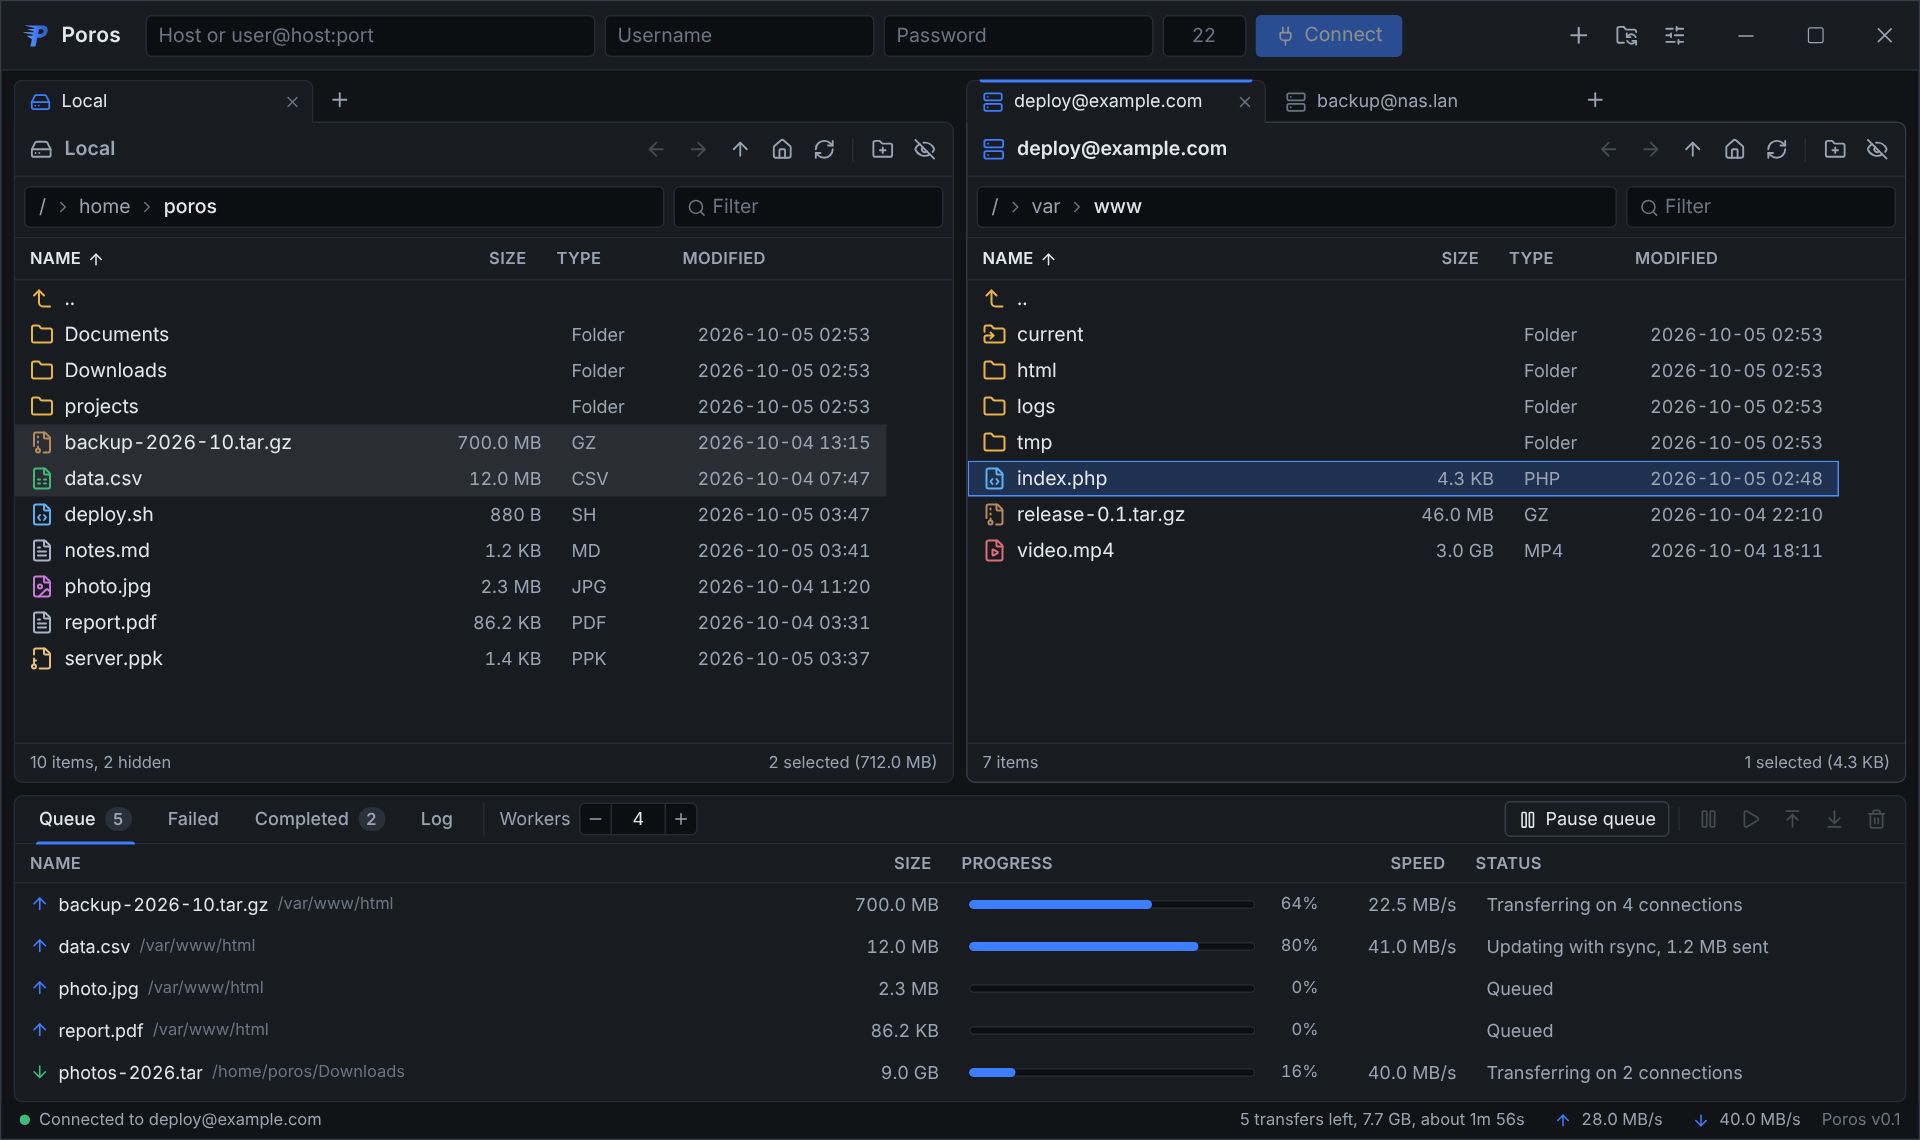
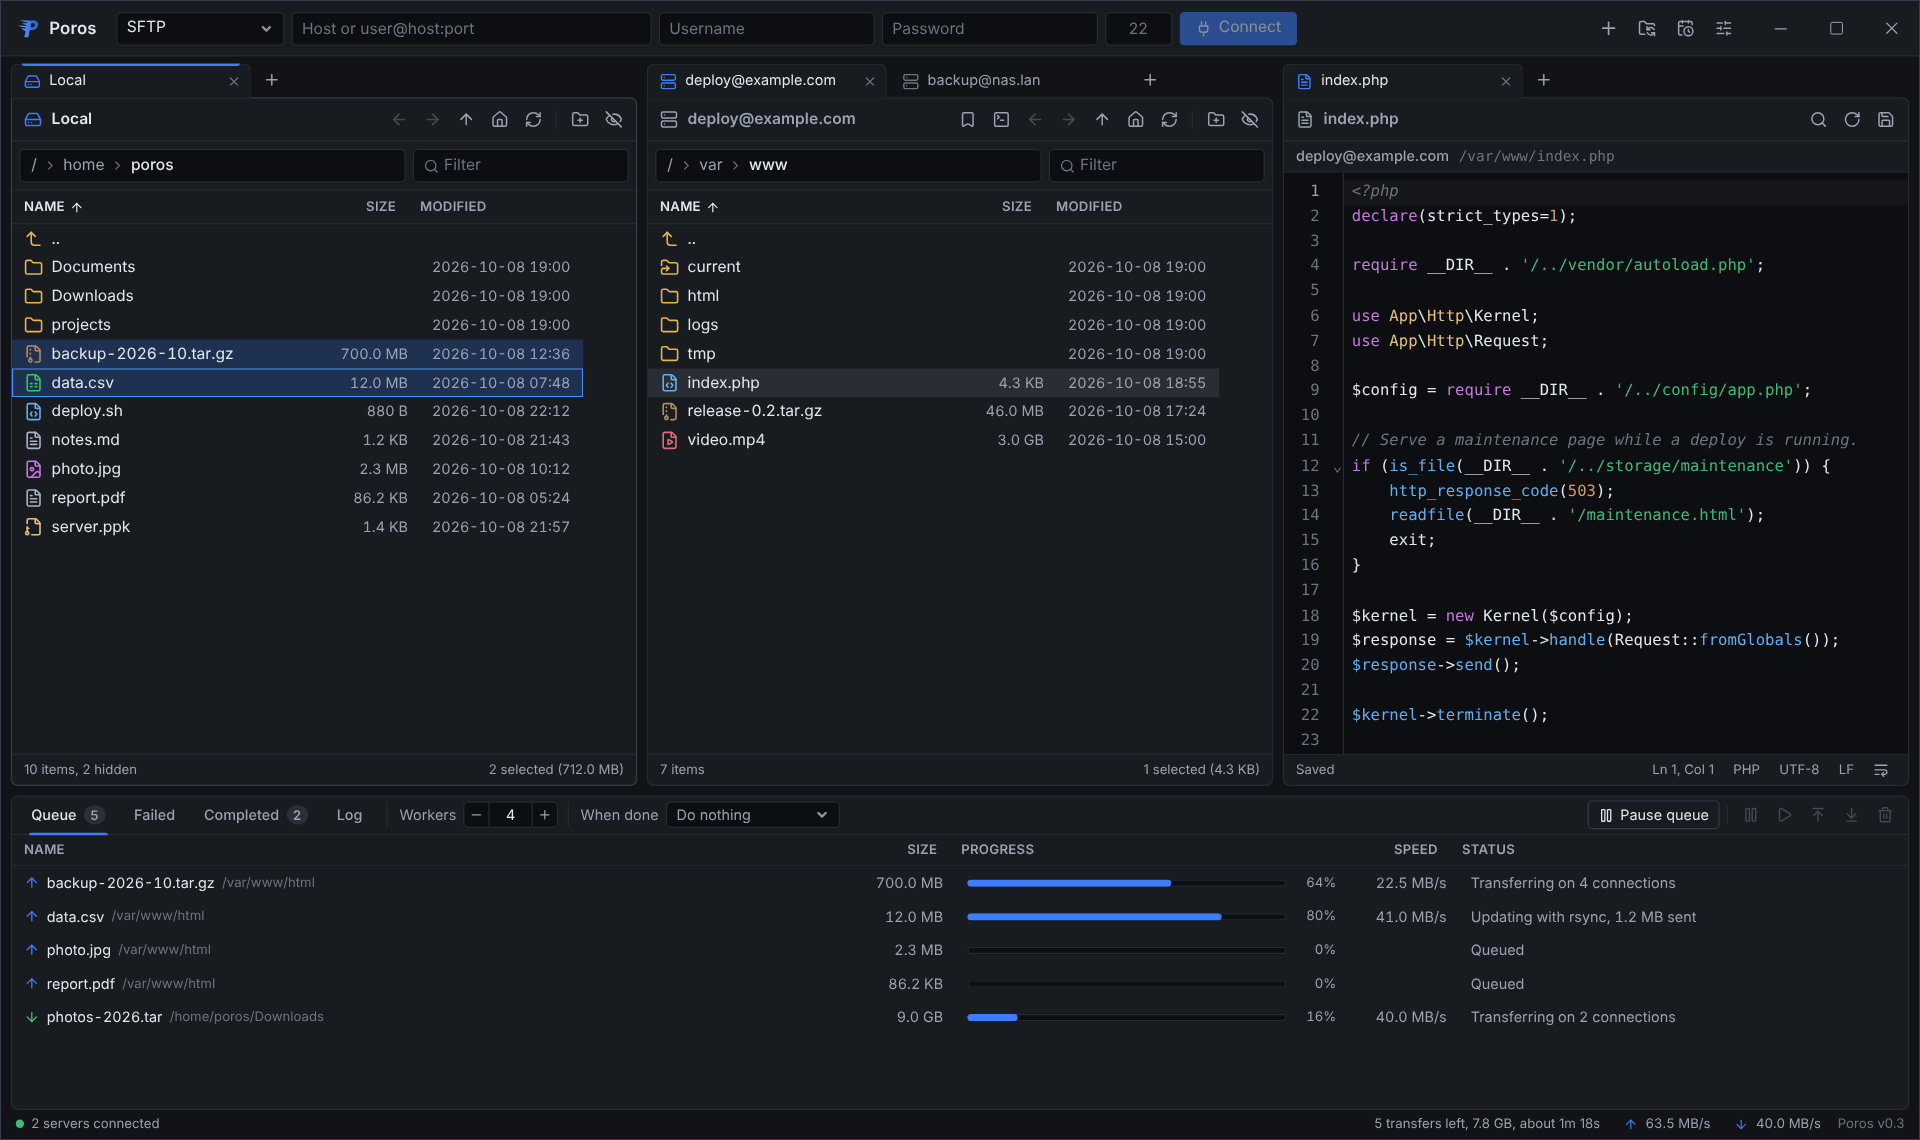
Update the README screenshot
Shows the current interface: the protocol picker, the When done control,
the scheduler button, a file open in the editor beside the file panes,
and v0.3 in the status bar.

diff --git a/README.md b/README.md
@@ -13,7 +13,7 @@
   <a href="LICENSE"><img src="https://img.shields.io/badge/license-Apache--2.0-blue" alt="License: Apache-2.0"></a>
 </p>
 
-![Poros with a local folder, two server tabs and transfers running in the queue](.github/assets/screenshot.png)
+![Poros with a local folder, two server tabs, a file open in the editor and transfers running in the queue](.github/assets/screenshot.png)
 
 ## Features
 
